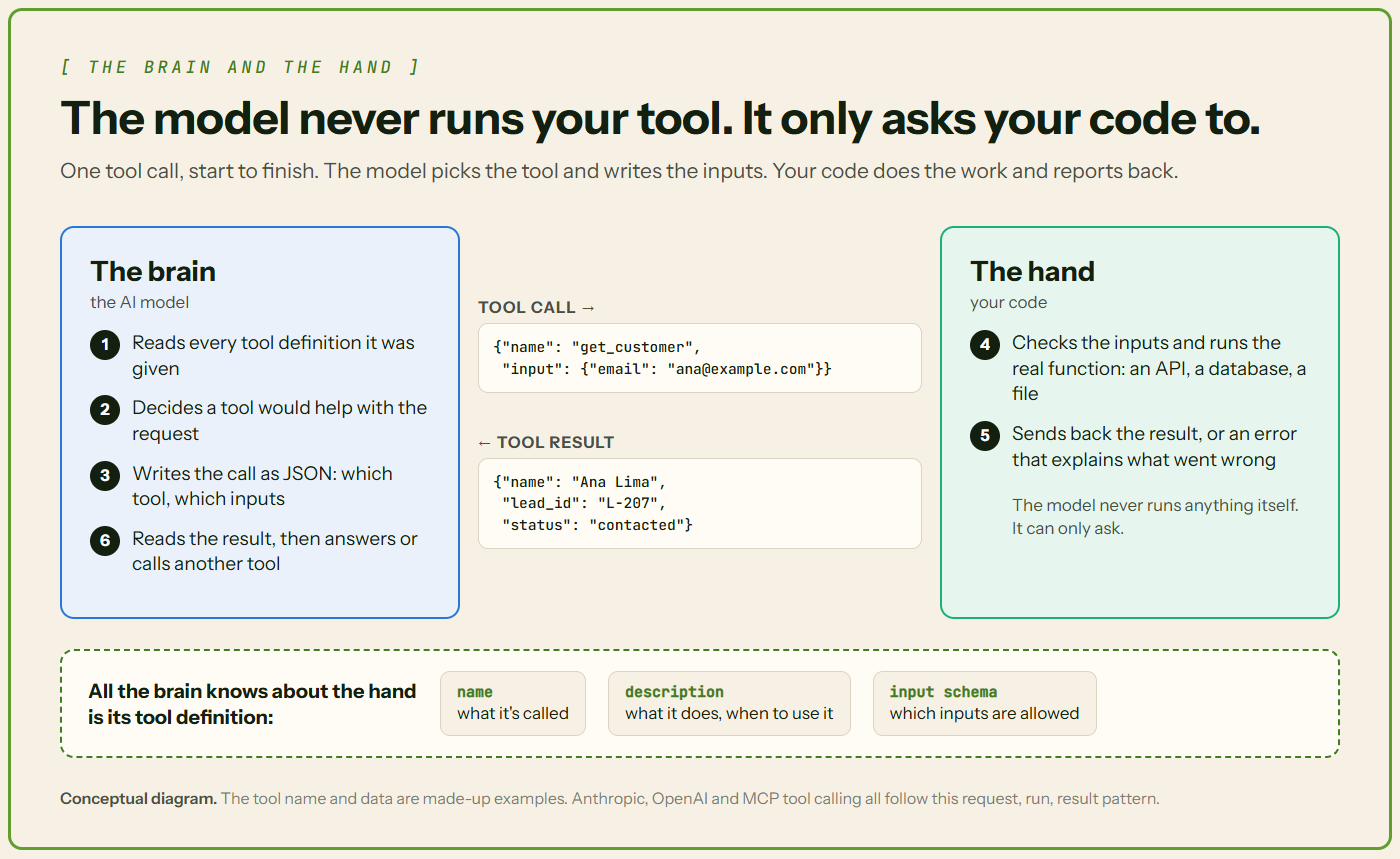
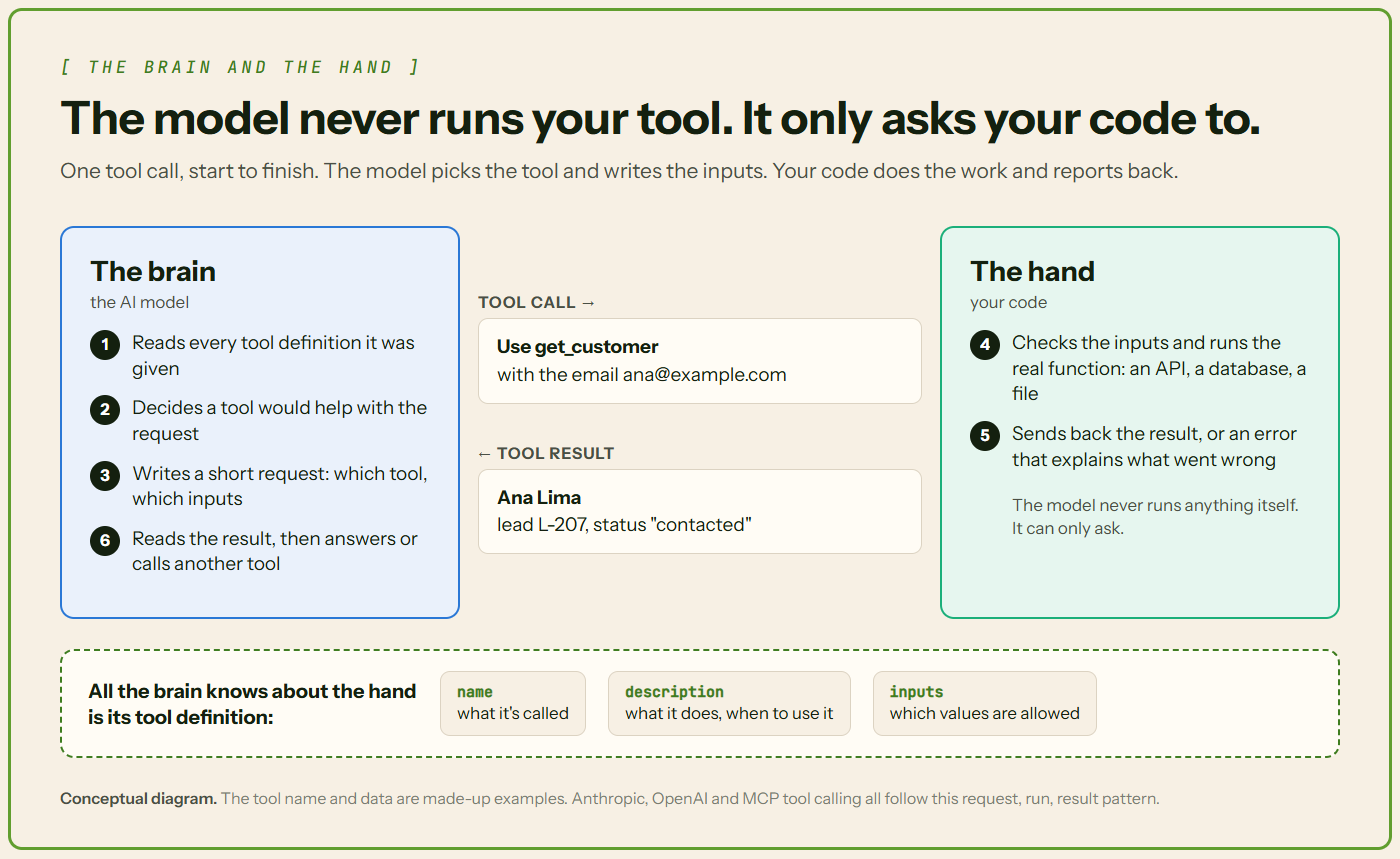
Remove code snippets and trim links in the tool design article

diff --git a/tool-design-for-ai-agents/index.html b/tool-design-for-ai-agents/index.html
@@ -313,7 +313,7 @@
 
 <p class="drop-cap">Ask an AI model to book you a meeting. On its own, it can't. A model only writes text. For anything else, it needs a tool.</p>
 
-<p>Anthropic, the company behind Claude, says agents "are typically just LLMs using tools based on environmental feedback in a loop." <a href="https://www.anthropic.com/research/building-effective-agents" target="_blank">[1]</a> In plain words: the model thinks, uses a tool, looks at what happened, and goes again.</p>
+<p>Anthropic, the company behind Claude, says agents "<a href="https://www.anthropic.com/research/building-effective-agents" target="_blank">are typically just LLMs using tools based on environmental feedback in a loop</a>." In plain words: the model thinks, uses a tool, looks at what happened, and goes again.</p>
 
 <p>Tools are the layer that connects that loop to real data and real systems. The model is the brain. Tools are its hands.</p>
 
@@ -332,7 +332,7 @@
       <tr><td>AI agent</td><td>An LLM that works in a loop, using tools step by step until a task is done.</td></tr>
       <tr><td>Function</td><td>A named piece of code that takes inputs and does one thing.</td></tr>
       <tr><td>API and endpoint</td><td>An API is how one program talks to another. An endpoint is one action it offers.</td></tr>
-      <tr><td>JSON and JSON Schema</td><td>JSON is a simple text format for data. JSON Schema describes which JSON is allowed.</td></tr>
+      <tr><td>JSON and JSON Schema</td><td>JSON is a simple text format apps use to pass data. JSON Schema describes which data is allowed.</td></tr>
       <tr><td>Token</td><td>A small chunk of text, a word or part of one. Models read and charge by tokens.</td></tr>
       <tr><td>Context window</td><td>Everything the model can see at once. It's measured in tokens and has a limit.</td></tr>
       <tr><td>MCP</td><td>Model Context Protocol, an open standard for plugging tools into AI apps.</td></tr>
@@ -347,9 +347,9 @@
 <p><strong>In plain words:</strong> a tool is a function the agent can call. It either fetches information or takes an action. Think <code>get_customer</code> or <code>send_email</code>.</p>
 
 <ul>
-  <li><strong>The model only asks.</strong> It writes a structured request. Your code runs the tool and sends the result back. <a href="https://developers.openai.com/api/docs/guides/function-calling" target="_blank">[5]</a></li>
+  <li><strong>The model only asks.</strong> It writes a structured request. Your code runs the tool and sends the result back.</li>
   <li><strong>Tools get work done.</strong> Without them, a model answers questions. With them, it can look things up and change things.</li>
-  <li><strong>Tools reach past training data.</strong> OpenAI says tool calling lets models "access data outside their training data." <a href="https://developers.openai.com/api/docs/guides/function-calling" target="_blank">[5]</a> That means live prices, company systems and the real world.</li>
+  <li><strong>Tools reach past training data.</strong> OpenAI says tool calling lets models "access data outside their training data." That means live prices, company systems and the real world.</li>
 </ul>
 
 <p class="guardrail"><strong>Good to know:</strong> Training data is the text a model learned from. It stops at a cutoff date. It never included your private systems.</p>
@@ -374,12 +374,12 @@
   </div>
 </figure>
 
-<p>That last one is how a hub talks to its spokes, as in our <a href="https://padmashri23.github.io/under-the-hood/production-multi-agent-architecture/" target="_blank">hub-and-spoke article</a>. OpenAI's Agents SDK has a shortcut for it, <code>as_tool</code>. It can "expose an agent as a callable tool without a full handoff." <a href="https://openai.github.io/openai-agents-python/tools/" target="_blank">[10]</a></p>
+<p>That last one is how a hub talks to its spokes, as in our hub-and-spoke article. OpenAI's Agents SDK has a shortcut for it, <code>as_tool</code>. It can "expose an agent as a callable tool without a full handoff."</p>
 
 <h3>Built-in tools vs your own</h3>
 
 <ul>
-  <li><strong>Built-in tools</strong> come ready-made from the AI provider and run on its servers. Anthropic's include web search, web fetch and code execution. <a href="https://platform.claude.com/docs/en/agents-and-tools/tool-use/overview" target="_blank">[8]</a> OpenAI's include web search and file search. <a href="https://developers.openai.com/api/docs/guides/tools" target="_blank">[9]</a></li>
+  <li><strong>Built-in tools</strong> come ready-made from the AI provider and run on its servers. Anthropic's include web search, web fetch and code execution. OpenAI's include web search and file search.</li>
   <li><strong>Custom tools</strong> are the ones you write for your own systems. Your code runs them. Most of this article is about these.</li>
 </ul>
 
@@ -391,12 +391,12 @@
 
 <ul>
   <li><strong>Name:</strong> short, action-first and clear. <code>get_customer</code> beats <code>customer</code> or <code>helper</code>. Add detail when it helps, like <code>get_customer_by_email</code>.</li>
-  <li><strong>Description:</strong> what it does, when to use it, when not to, and what it returns. Anthropic says a description should cover "When it should be used (and when it shouldn't)." <a href="https://platform.claude.com/docs/en/agents-and-tools/tool-use/define-tools" target="_blank">[16]</a></li>
-  <li><strong>Input schema:</strong> a JSON Schema for the inputs. It sets each input's type and marks which are required or optional. An enum limits a value to a fixed list. A format names the expected shape, like <code>"date"</code> for 2026-11-07. Many validators skip this check unless you turn it on. <a href="https://json-schema.org/draft/2020-12/json-schema-validation" target="_blank">[11]</a></li>
+  <li><strong>Description:</strong> what it does, when to use it, when not to, and what it returns. Anthropic says a description should cover "When it should be used (and when it shouldn't)."</li>
+  <li><strong>Input schema:</strong> a JSON Schema for the inputs. It sets each input's type and marks which are required or optional. An enum limits a value to a fixed list. A format names the expected shape, like a date such as 2026-11-07. Many validators skip this check unless you turn it on.</li>
   <li><strong>Parameter descriptions:</strong> one line per input, with an example value. For instance: "Exact email, e.g. ana@example.com."</li>
 </ul>
 
-<p class="guardrail"><strong>Good to know:</strong> The description is really a prompt. The model picks tools by reading it. Anthropic says descriptions "can collectively steer agents toward effective tool-calling behaviors." <a href="https://www.anthropic.com/engineering/writing-tools-for-agents" target="_blank">[2]</a> A vague one leads to wrong calls.</p>
+<p class="guardrail"><strong>Good to know:</strong> The description is really a prompt. The model picks tools by reading it. Anthropic says descriptions "can collectively steer agents toward effective tool-calling behaviors." A vague one leads to wrong calls.</p>
 
 <h2>🔄 The tool-calling flow, step by step</h2>
 
@@ -410,58 +410,25 @@
   <li>The model reads the result. Then it calls another tool or gives its final answer.</li>
 </ol>
 
-<p>OpenAI's guide describes these same five steps. <a href="https://developers.openai.com/api/docs/guides/function-calling" target="_blank">[5]</a></p>
+<p>OpenAI's guide describes these same five steps.</p>
 
 <figure class="article-image">
-  <img src="https://padmashri23.github.io/under-the-hood/tool-design-for-ai-agents/images/brain-and-hand.png" onerror="this.onerror=null;this.src='images/brain-and-hand.png'" width="1400" height="859" loading="lazy" alt="Diagram of one tool call. The brain, the AI model, reads tool definitions, decides a tool would help, and writes a JSON call such as get_customer with an email. The hand, your code, checks the inputs, runs the real function and sends back the result or a clear error. The model reads the result and answers or calls again. All the model knows about the tool is its name, description and input schema.">
+  <img src="https://padmashri23.github.io/under-the-hood/tool-design-for-ai-agents/images/brain-and-hand.png" onerror="this.onerror=null;this.src='images/brain-and-hand.png'" width="1400" height="859" loading="lazy" alt="Diagram of one tool call. The brain, the AI model, reads tool definitions, decides a tool would help, and writes a short request, such as get_customer with an email. The hand, your code, checks the inputs, runs the real function and sends back the result or a clear error. The model reads the result and answers or calls again. All the model knows about the tool is its name, description and input schema.">
   <figcaption>Figure 1. The tool-calling flow: the model asks, your code acts, the result goes back. Conceptual diagram with made-up data.</figcaption>
 </figure>
 
-<h3>One round trip in code</h3>
+<h3>One round trip, step by step</h3>
 
-<p>Here's one full round trip, in the format Anthropic's API uses. <a href="https://platform.claude.com/docs/en/agents-and-tools/tool-use/overview" target="_blank">[8]</a></p>
+<p>Here's the same flow with our running example. A user asks: "What stage is Ana's lead at? Her email is ana@example.com."</p>
 
-<figure class="tbl">
-<pre><code>// 1. Your app sends this tool definition with the user's message:
-//    "What stage is Ana's lead at? Her email is ana@example.com."
-{
-  "name": "get_customer",
-  "description": "Find one customer by exact email. Use it before update_lead_status. Don't use it to search by name. Returns name, lead_id and lead status, or a not-found message.",
-  "input_schema": {
-    "type": "object",
-    "properties": {
-      "email": {"type": "string",
-                "description": "Exact email, e.g. ana@example.com"}
-    },
-    "required": ["email"]
-  }
-}
+<ol>
+  <li><strong>Your app sends the tool definition.</strong> It describes <code>get_customer</code>: "Find one customer by exact email." Its one required input is the email.</li>
+  <li><strong>The model asks for the tool.</strong> It replies: use <code>get_customer</code> with ana@example.com. The request gets an ID, like a tracking number.</li>
+  <li><strong>Your code runs it.</strong> It checks the email and looks Ana up in the CRM. It sends back her name, lead L-207 and status "contacted", tagged with the same tracking number.</li>
+  <li><strong>The model answers.</strong> "Ana Lima's lead is at the contacted stage."</li>
+</ol>
 
-// 2. The model replies with a tool call (stop_reason: "tool_use")
-{"type": "tool_use", "id": "toolu_01A",
- "name": "get_customer",
- "input": {"email": "ana@example.com"}}
-
-// 3. Your code checks the email, runs the lookup, sends this back
-{"type": "tool_result", "tool_use_id": "toolu_01A",
- "content": "{\"name\": \"Ana Lima\", \"lead_id\": \"L-207\", \"status\": \"contacted\"}"}
-
-// 4. The model reads it and answers:
-//    "Ana Lima's lead is at the contacted stage."</code></pre>
-<figcaption>Code 1. A simplified round trip with made-up data. The tool_use_id links the result to the call. OpenAI's API does the same job with a call_id. <a href="https://developers.openai.com/api/docs/guides/function-calling" target="_blank">[5]</a></figcaption>
-</figure>
-
-<p><strong>What each part means:</strong></p>
-
-<ul>
-  <li><code>name</code> and <code>description</code>: what the model reads to pick the tool.</li>
-  <li><code>input_schema</code>: the inputs allowed. <code>required</code> means the model must always fill in <code>email</code>.</li>
-  <li><code>tool_use</code>: the model's request. Its <code>id</code> works like a tracking number.</li>
-  <li><code>tool_result</code>: your reply. <code>tool_use_id</code> repeats the tracking number, so the model knows which call it answers.</li>
-  <li><code>content</code>: the data itself, kept short.</li>
-</ul>
-
-<p class="guardrail"><strong>Good to know:</strong> One reply can hold more than one tool call. Your app runs each one and sends back each result with its own ID. <a href="https://platform.claude.com/docs/en/agents-and-tools/tool-use/overview" target="_blank">[8]</a></p>
+<p class="guardrail"><strong>Good to know:</strong> One reply can hold more than one tool call. Your app runs each one and sends back each result with its own ID.</p>
 
 <h2>📤 Designing tool outputs</h2>
 
@@ -470,13 +437,13 @@
 <ul>
   <li><strong>Return only what's needed.</strong> Short, structured, relevant fields.</li>
   <li><strong>Skip raw dumps.</strong> A full API response or a page of HTML fills the context fast.</li>
-  <li><strong>Page or trim big results.</strong> Anthropic suggests "pagination, range selection, filtering, and/or truncation." <a href="https://www.anthropic.com/engineering/writing-tools-for-agents" target="_blank">[2]</a> Pagination means sending results one page at a time.</li>
-  <li><strong>Say when you cut something.</strong> Anthropic says to "steer agents with helpful instructions" after truncating. <a href="https://www.anthropic.com/engineering/writing-tools-for-agents" target="_blank">[2]</a> For example: "Showing 20 of 340 results. Add a date filter to narrow it."</li>
-  <li><strong>Keep formats consistent</strong> across tools. Anthropic found even the choice of JSON, XML or Markdown can affect results. <a href="https://www.anthropic.com/engineering/writing-tools-for-agents" target="_blank">[2]</a></li>
-  <li><strong>Include IDs and links the agent needs next.</strong> Readable names help the model think. But a follow-up call may need an exact ID. Anthropic's example: <code>search_user(name='jane')</code> then <code>send_message(id=12345)</code>. <a href="https://www.anthropic.com/engineering/writing-tools-for-agents" target="_blank">[2]</a></li>
+  <li><strong>Page or trim big results.</strong> Anthropic suggests "pagination, range selection, filtering, and/or truncation." Pagination means sending results one page at a time.</li>
+  <li><strong>Say when you cut something.</strong> Anthropic says to "steer agents with helpful instructions" after truncating. For example: "Showing 20 of 340 results. Add a date filter to narrow it."</li>
+  <li><strong>Keep formats consistent</strong> across tools. Anthropic found even the choice of JSON, XML or Markdown can affect results.</li>
+  <li><strong>Include IDs and links the agent needs next.</strong> Readable names help the model think. But a follow-up call may need an exact ID. Anthropic's example: find a user by name, then message them using their ID.</li>
 </ul>
 
-<p>Anthropic's Slack example shows the payoff. A detailed reply used 206 tokens. A concise one used 72. <a href="https://www.anthropic.com/engineering/writing-tools-for-agents" target="_blank">[2]</a></p>
+<p><a href="https://www.anthropic.com/engineering/writing-tools-for-agents" target="_blank">Anthropic's Slack example</a> shows the payoff. A detailed reply used 206 tokens. A concise one used 72.</p>
 
 <figure class="article-image">
   <img src="https://padmashri23.github.io/under-the-hood/tool-design-for-ai-agents/images/concise-vs-detailed.png" onerror="this.onerror=null;this.src='images/concise-vs-detailed.png'" width="1400" height="541" loading="lazy" alt="Bar chart: a detailed Slack tool response uses 206 tokens and a concise one uses 72 tokens, about a third.">
@@ -489,7 +456,7 @@
 
 <p><strong>In plain words:</strong> a few small, clear tools beat a big, messy toolbox.</p>
 
-<p>Does design really matter? In 2024, Princeton researchers tested a coding agent called SWE-agent. They kept one model, GPT-4 Turbo, and changed only its tools. On 300 real GitHub bugs, the full toolset fixed 18.0%. Without its custom file editor, it fixed 10.3%. <a href="https://arxiv.org/abs/2405.15793" target="_blank">[6]</a></p>
+<p>Does design really matter? In 2024, <a href="https://arxiv.org/abs/2405.15793" target="_blank">Princeton researchers</a> tested a coding agent called SWE-agent. They kept one model, GPT-4 Turbo, and changed only its tools. On 300 real GitHub bugs, the full toolset fixed 18.0%. Without its custom file editor, it fixed 10.3%.</p>
 
 <figure class="article-image">
   <img src="https://padmashri23.github.io/under-the-hood/tool-design-for-ai-agents/images/same-model-different-tools.png" onerror="this.onerror=null;this.src='images/same-model-different-tools.png'" width="1400" height="829" loading="lazy" alt="Bar chart of SWE-agent results on SWE-bench Lite with GPT-4 Turbo. Full toolset 18.0 percent. No search tool 15.7 percent. Editor without syntax check 15.0 percent. Viewer showing the whole file 12.7 percent. Search showing one result at a time 12.0 percent. No custom edit command 10.3 percent.">
@@ -498,25 +465,25 @@
 
 <ul>
   <li><strong>Small, focused toolset.</strong> Too many tools make picking the right one harder. More on this below.</li>
-  <li><strong>No overlap.</strong> Anthropic: "Make sure each tool you build has a clear, distinct purpose." <a href="https://www.anthropic.com/engineering/writing-tools-for-agents" target="_blank">[2]</a></li>
-  <li><strong>Right size.</strong> One tool per real task, not one per API endpoint. One <code>schedule_event</code> beats <code>list_users</code>, <code>list_events</code> and <code>create_event</code>. <a href="https://www.anthropic.com/engineering/writing-tools-for-agents" target="_blank">[2]</a></li>
-  <li><strong>Separate read from write.</strong> Then reads can run freely while writes get checks. MCP lets a tool label itself read-only or destructive. <a href="https://modelcontextprotocol.io/specification/2025-11-25/schema" target="_blank">[12]</a></li>
-  <li><strong>Idempotent where possible.</strong> That means running it twice has the same effect as once. A retry won't create a duplicate ticket. MCP has a label for this too. <a href="https://modelcontextprotocol.io/specification/2025-11-25/schema" target="_blank">[12]</a></li>
-  <li><strong>One naming pattern.</strong> Use verb_noun: <code>get_customer</code>, <code>update_lead_status</code>, <code>send_email</code>. Anthropic also suggests shared prefixes, like <code>asana_search</code> and <code>jira_search</code>. <a href="https://www.anthropic.com/engineering/writing-tools-for-agents" target="_blank">[2]</a></li>
+  <li><strong>No overlap.</strong> Anthropic: "Make sure each tool you build has a clear, distinct purpose."</li>
+  <li><strong>Right size.</strong> One tool per real task, not one per API endpoint. One <code>schedule_event</code> beats <code>list_users</code>, <code>list_events</code> and <code>create_event</code>.</li>
+  <li><strong>Separate read from write.</strong> Then reads can run freely while writes get checks. MCP lets a tool label itself read-only or destructive.</li>
+  <li><strong>Idempotent where possible.</strong> That means running it twice has the same effect as once. A retry won't create a duplicate ticket. MCP has a label for this too.</li>
+  <li><strong>One naming pattern.</strong> Use verb_noun: <code>get_customer</code>, <code>update_lead_status</code>, <code>send_email</code>. Anthropic also suggests shared prefixes, like <code>asana_search</code> and <code>jira_search</code>.</li>
 </ul>
 
 <h3>How many tools is too many?</h3>
 
-<p>Every tool definition sits in the context window before the agent starts. Anthropic shared an example with five MCP servers: 58 tools using about 55,000 tokens "before the conversation even starts." <a href="https://www.anthropic.com/engineering/advanced-tool-use" target="_blank">[3]</a> OpenAI suggests fewer than 20 tools at the start, calling it "just a soft suggestion." <a href="https://developers.openai.com/api/docs/guides/function-calling" target="_blank">[5]</a></p>
+<p>Every tool definition sits in the context window before the agent starts. Anthropic shared an example with five MCP servers: 58 tools using about 55,000 tokens "<a href="https://www.anthropic.com/engineering/advanced-tool-use" target="_blank">before the conversation even starts</a>." <a href="https://developers.openai.com/api/docs/guides/function-calling" target="_blank">OpenAI suggests fewer than 20 tools at the start</a>, calling it "just a soft suggestion."</p>
 
 <figure class="article-image">
   <img src="https://padmashri23.github.io/under-the-hood/tool-design-for-ai-agents/images/tool-definition-tokens.png" onerror="this.onerror=null;this.src='images/tool-definition-tokens.png'" width="1400" height="735" loading="lazy" alt="Bar chart of tokens used by tool definitions per MCP server: GitHub 35 tools about 26K tokens, Slack 11 tools about 21K, Sentry 5 tools about 3K, Grafana 5 tools about 3K, Splunk 2 tools about 2K. 58 tools, about 55K tokens in total.">
   <figcaption>Figure 4. Where 55,000 tokens go. Approximate figures from Anthropic (2025).</figcaption>
 </figure>
 
-<p class="guardrail"><strong>Good to know:</strong> Need a big toolbox anyway? Load tools only when needed. Anthropic's Tool Search Tool lets the model search for the few it needs. In Anthropic's example, that cut up-front context from about 77,000 tokens to 8,700. In internal tests, it also raised accuracy (Figure 5). <a href="https://www.anthropic.com/engineering/advanced-tool-use" target="_blank">[3]</a></p>
+<p class="guardrail"><strong>Good to know:</strong> Need a big toolbox anyway? Load tools only when needed. Anthropic's Tool Search Tool lets the model search for the few it needs. In Anthropic's example, that cut up-front context from about 77,000 tokens to 8,700. In internal tests, it also raised accuracy (Figure 5).</p>
 
-<p>A 2025 paper, RAG-MCP, saw a similar pattern. Picking relevant tools first more than tripled accuracy on its test: 43.13% against 13.62%. <a href="https://arxiv.org/abs/2505.03275" target="_blank">[7]</a></p>
+<p>A 2025 paper, <a href="https://arxiv.org/abs/2505.03275" target="_blank">RAG-MCP</a>, saw a similar pattern. Picking relevant tools first more than tripled accuracy on its test: 43.13% against 13.62%.</p>
 
 <figure class="article-image">
   <img src="https://padmashri23.github.io/under-the-hood/tool-design-for-ai-agents/images/tool-search.png" onerror="this.onerror=null;this.src='images/tool-search.png'" width="1400" height="890" loading="lazy" alt="Two charts. Left: accuracy on MCP evaluations rises from 49 to 74 percent for Claude Opus 4 and from 79.5 to 88.1 percent for Opus 4.5 with Tool Search. Right: context used before work begins falls from about 77K tokens to about 8.7K tokens.">
@@ -525,13 +492,13 @@
 
 <h3>Test your tools on real tasks</h3>
 
-<p>How do you know your tools work? Test them. Anthropic builds a quick prototype, then runs an evaluation on tasks "grounded in real world uses." <a href="https://www.anthropic.com/engineering/writing-tools-for-agents" target="_blank">[2]</a></p>
+<p>How do you know your tools work? Test them. Anthropic builds a quick prototype, then runs an evaluation on tasks "grounded in real world uses."</p>
 
 <ul>
   <li><strong>Read the transcripts,</strong> the full log of tool calls and results.</li>
-  <li><strong>Lots of invalid inputs</strong> suggest the description or examples need work. <a href="https://www.anthropic.com/engineering/writing-tools-for-agents" target="_blank">[2]</a></li>
-  <li><strong>Lots of repeat calls</strong> may mean page sizes or limits need adjusting. <a href="https://www.anthropic.com/engineering/writing-tools-for-agents" target="_blank">[2]</a></li>
-  <li><strong>Let AI help.</strong> Anthropic pastes transcripts into Claude Code and has Claude improve the tools. <a href="https://www.anthropic.com/engineering/writing-tools-for-agents" target="_blank">[2]</a></li>
+  <li><strong>Lots of invalid inputs</strong> suggest the description or examples need work.</li>
+  <li><strong>Lots of repeat calls</strong> may mean page sizes or limits need adjusting.</li>
+  <li><strong>Let AI help.</strong> Anthropic pastes transcripts into Claude Code and has Claude improve the tools.</li>
 </ul>
 
 <p>More on testing in our guide to <a href="https://padmashri23.github.io/under-the-hood/evaluate-ai-agents-before-production/" target="_blank">evaluating AI agents</a>.</p>
@@ -564,7 +531,7 @@
 <p>Here's what a poor and a good definition look like side by side.</p>
 
 <figure class="article-image">
-  <img src="https://padmashri23.github.io/under-the-hood/tool-design-for-ai-agents/images/tool-anatomy.png" onerror="this.onerror=null;this.src='images/tool-anatomy.png'" width="1400" height="1006" loading="lazy" alt="Two tool definitions side by side. The weak one is named get, described as Gets data, and takes vague user and type strings. The strong one is named get_customer, says when to use it, when not to and what it returns, gives an example email input, and limits response_format to concise or detailed with an enum.">
+  <img src="https://padmashri23.github.io/under-the-hood/tool-design-for-ai-agents/images/tool-anatomy.png" onerror="this.onerror=null;this.src='images/tool-anatomy.png'" width="1400" height="934" loading="lazy" alt="Two tool definitions side by side. The weak one is named get, described as Gets data, and takes vague user and type strings. The strong one is named get_customer, says when to use it, when not to and what it returns, gives an example email input, and limits response_format to concise or detailed.">
   <figcaption>Figure 6. A poor and a good definition for the same job. Illustrative example with made-up tools.</figcaption>
 </figure>
 
@@ -575,40 +542,28 @@
 <p><strong>In plain words:</strong> when a tool fails, the error goes back to the model. That message is its only clue about what to fix.</p>
 
 <ul>
-  <li><strong>Write readable errors.</strong> "Customer not found. Check the email format." beats a stack trace, the raw crash log a program prints. MCP says good tool errors give "actionable feedback that language models can use to self-correct." <a href="https://modelcontextprotocol.io/specification/2025-11-25/server/tools" target="_blank">[4]</a></li>
-  <li><strong>Check arguments before running,</strong> especially for writes. MCP servers "MUST" validate all tool inputs. <a href="https://modelcontextprotocol.io/specification/2025-11-25/server/tools" target="_blank">[4]</a></li>
-  <li><strong>Set timeouts and retry limits.</strong> MCP says apps should "Implement timeouts for tool calls." <a href="https://modelcontextprotocol.io/specification/2025-11-25/server/tools" target="_blank">[4]</a> Cap retries too, so a broken tool can't loop forever.</li>
+  <li><strong>Write readable errors.</strong> "Customer not found. Check the email format." beats a stack trace, the raw crash log a program prints. MCP says good tool errors give "actionable feedback that language models can use to self-correct."</li>
+  <li><strong>Check arguments before running,</strong> especially for writes. MCP servers "MUST" validate all tool inputs.</li>
+  <li><strong>Set timeouts and retry limits.</strong> MCP says apps should "Implement timeouts for tool calls." Cap retries too, so a broken tool can't loop forever.</li>
   <li><strong>Let the model recover.</strong> It can retry with fixed input, try another tool, or tell the user.</li>
   <li><strong>Log every failure,</strong> so you can debug it later.</li>
 </ul>
 
-<figure class="tbl">
-<pre><code>// Hard to recover from
-{"type": "tool_result", "tool_use_id": "toolu_01A",
- "content": "Error 500", "is_error": true}
-
-// Easy to recover from (the user mistyped the email)
-{"type": "tool_result", "tool_use_id": "toolu_01A",
- "content": "Customer not found for ana@exmple.com. Check the spelling of the email, or ask the user to confirm it.",
- "is_error": true}</code></pre>
-<figcaption>Code 2. The same failure, reported two ways. Made-up example in Anthropic's format.</figcaption>
-</figure>
-
-<p class="guardrail"><strong>Good to know:</strong> Mark failures clearly. Anthropic's API uses <code>is_error: true</code> on a tool result. <a href="https://platform.claude.com/docs/en/agents-and-tools/tool-use/handle-tool-calls" target="_blank">[13]</a> MCP uses <code>isError: true</code>. <a href="https://modelcontextprotocol.io/specification/2025-11-25/server/tools" target="_blank">[4]</a></p>
+<p class="guardrail"><strong>Good to know:</strong> Mark failures clearly. Anthropic's API and MCP both let a tool flag its result as an error, so the model knows the call failed.</p>
 
 <h2>🔐 Tool security and permissions</h2>
 
 <p><strong>In plain words:</strong> a tool that can delete, pay or send can do damage. Limit what each one can do.</p>
 
 <ul>
-  <li><strong>Least privilege.</strong> Give each agent only the tools it needs. OWASP, a security nonprofit, says to limit tools "to only the minimum necessary." <a href="https://genai.owasp.org/llmrisk/llm062025-excessive-agency/" target="_blank">[14]</a></li>
-  <li><strong>Keep credentials in your code.</strong> API keys live in your app, which runs the tool. Scope each key to just what that tool needs. The model never needs to see them. OWASP also says actions should run with the user's own access and "the minimum privileges necessary." <a href="https://genai.owasp.org/llmrisk/llm062025-excessive-agency/" target="_blank">[14]</a></li>
-  <li><strong>Human approval for risky actions,</strong> like payments, deletions and outside messages. MCP says a person "SHOULD" be able to deny tool calls. <a href="https://modelcontextprotocol.io/specification/2025-11-25/server/tools" target="_blank">[4]</a></li>
-  <li><strong>Treat tool results as untrusted.</strong> A web page or file can hide instructions. That's indirect prompt injection: it happens "when an LLM accepts input from external sources, such as websites or files." <a href="https://genai.owasp.org/llmrisk/llm01-prompt-injection/" target="_blank">[15]</a> MCP says to "Validate tool results before passing to LLM." <a href="https://modelcontextprotocol.io/specification/2025-11-25/server/tools" target="_blank">[4]</a></li>
-  <li><strong>Keep an audit log.</strong> MCP says to "Log tool usage for audit purposes." <a href="https://modelcontextprotocol.io/specification/2025-11-25/server/tools" target="_blank">[4]</a></li>
+  <li><strong>Least privilege.</strong> Give each agent only the tools it needs. OWASP, a security nonprofit, says to limit tools "<a href="https://genai.owasp.org/llmrisk/llm062025-excessive-agency/" target="_blank">to only the minimum necessary</a>."</li>
+  <li><strong>Keep credentials in your code.</strong> API keys live in your app, which runs the tool. Scope each key to just what that tool needs. The model never needs to see them. OWASP also says actions should run with the user's own access and "the minimum privileges necessary."</li>
+  <li><strong>Human approval for risky actions,</strong> like payments, deletions and outside messages. MCP says a person "SHOULD" <a href="https://modelcontextprotocol.io/specification/2025-11-25/server/tools" target="_blank">be able to deny tool calls</a>.</li>
+  <li><strong>Treat tool results as untrusted.</strong> A web page or file can hide instructions. That's indirect prompt injection: it happens "when an LLM accepts input from external sources, such as websites or files." MCP says to "Validate tool results before passing to LLM."</li>
+  <li><strong>Keep an audit log.</strong> MCP says to "Log tool usage for audit purposes."</li>
 </ul>
 
-<p class="guardrail"><strong>Good to know:</strong> MCP lets tools label themselves read-only or destructive. <a href="https://modelcontextprotocol.io/specification/2025-11-25/schema" target="_blank">[12]</a> But apps "MUST consider tool annotations to be untrusted unless they come from trusted servers." <a href="https://modelcontextprotocol.io/specification/2025-11-25/server/tools" target="_blank">[4]</a></p>
+<p class="guardrail"><strong>Good to know:</strong> MCP lets tools label themselves read-only or destructive. But apps "MUST consider tool annotations to be untrusted unless they come from trusted servers."</p>
 
 <p>More in our articles on <a href="https://padmashri23.github.io/under-the-hood/prompt-injection-enterprise-threat/" target="_blank">prompt injection</a> and <a href="https://padmashri23.github.io/under-the-hood/ai-agent-risks-without-guardrails/" target="_blank">agent guardrails</a>.</p>
 
@@ -634,7 +589,7 @@
 </ol>
 
 <figure class="article-image">
-  <img src="https://padmashri23.github.io/under-the-hood/tool-design-for-ai-agents/images/crm-spoke.png" onerror="this.onerror=null;this.src='images/crm-spoke.png'" width="1400" height="902" loading="lazy" alt="Worked example of a CRM spoke with two tools. get_customer is a read tool that takes an email and runs right away. update_lead_status is a write tool that takes a lead ID and a status of new, contacted, qualified or lost, and needs approval. The spoke looks up Ana, gets lead L-207 with status contacted, requests a change to qualified, the app pauses for a person to approve or reject, and after approval the update runs, is logged and reported to the hub.">
+  <img src="https://padmashri23.github.io/under-the-hood/tool-design-for-ai-agents/images/crm-spoke.png" onerror="this.onerror=null;this.src='images/crm-spoke.png'" width="1400" height="892" loading="lazy" alt="Worked example of a CRM spoke with two tools. get_customer is a read tool that takes an email and runs right away. update_lead_status is a write tool that takes a lead ID and a status of new, contacted, qualified or lost, and needs approval. The spoke looks up Ana, gets lead L-207 with status contacted, requests a change to qualified, the app pauses for a person to approve or reject, and after approval the update runs, is logged and reported to the hub.">
   <figcaption>Figure 7. One read tool, one write tool with approval. Illustrative example with made-up data.</figcaption>
 </figure>
 
@@ -687,7 +642,7 @@
     <li>Anthropic. "Define tools." Claude Platform Docs. Checked November 7, 2026. <a href="https://platform.claude.com/docs/en/agents-and-tools/tool-use/define-tools" target="_blank">platform.claude.com</a></li>
   </ol>
 
-  <p style="margin-top: 20px;"><strong>Note:</strong> All sources were checked on November 7, 2026. Anthropic's token and accuracy figures come from its own published examples and internal testing; they have not been independently reproduced. The SWE-agent results are from 2024 with GPT-4 Turbo. Newer models score much higher on SWE-bench, so read Figure 3 as a comparison within one model, not as a current leaderboard. Figures 1, 6 and 7, Code 1 and 2, the CRM worked example and the error-message examples use made-up tools and data to illustrate the ideas. Code 1 and 2 are simplified from Anthropic's message format. The MCP quotes come from the 2025-11-25 version of the specification. Tool APIs change often, so check the provider's current docs before building.</p>
+  <p style="margin-top: 20px;"><strong>Note:</strong> All sources were checked on November 7, 2026. Anthropic's token and accuracy figures come from its own published examples and internal testing; they have not been independently reproduced. The SWE-agent results are from 2024 with GPT-4 Turbo. Newer models score much higher on SWE-bench, so read Figure 3 as a comparison within one model, not as a current leaderboard. Figures 1, 6 and 7, the round-trip walkthrough, the CRM worked example and the error-message examples use made-up tools and data to illustrate the ideas. The MCP quotes come from the 2025-11-25 version of the specification. Tool APIs change often, so check the provider's current docs before building.</p>
 
   <div class="tags">
     <span>AI agents</span>

diff --git a/tool-design-for-ai-agents/README.md b/tool-design-for-ai-agents/README.md
@@ -10,15 +10,15 @@ A beginner-friendly guide to the tools an AI agent uses to act in the world. The
 2. **What a tool is:** a function that fetches information or takes an action, and why the model never runs it itself
 3. **Types of tools:** read, write, compute, agent-as-tool, and built-in vs custom tools
 4. **Anatomy of a tool definition:** name, description (including when not to use it), JSON Schema inputs and parameter descriptions
-5. **The tool-calling flow:** five steps, a flow diagram, and a full round trip in code explained part by part
+5. **The tool-calling flow:** five steps, a flow diagram, and one full round trip walked through in plain words
 6. **Designing tool outputs:** lean results, pagination and truncation, consistent formats and useful IDs
 7. **Best practices:** the SWE-agent evidence, small and non-overlapping toolsets, task-sized tools, read/write split, idempotency, naming, and tool-count data
 8. **Common mistakes:** nine mistakes with fixes, plus a poor vs good definition side by side
-9. **Error handling** and **security and permissions:** readable errors (with a bad vs good error in code), validation, timeouts, logging, least privilege, credentials, approval and prompt injection
+9. **Error handling** and **security and permissions:** readable errors, validation, timeouts, logging, least privilege, credentials, approval and prompt injection
 10. **Worked example:** a CRM lookup spoke with one read tool and one write tool behind human approval
 11. **Testing and checklist:** how to test tools on real tasks, and a 12-point tool design checklist
 
-Written for beginners: a short-version box, a glossary, every technical term explained, and about 10 words per sentence on average. Every section follows the same shape: an "In plain words" opener, bullets, then a "Good to know" or "Try this" note. One running example (Ana's CRM lead) ties the figures, code and worked example together. About 3,004 words above Sources & References (3,061 including the title block), counting headings, captions, tables and both code examples. No video.
+Written for beginners: a short-version box, a glossary, every technical term explained, and about 10 words per sentence on average. Every section follows the same shape: an "In plain words" opener, bullets, then a "Good to know" or "Try this" note. One running example (Ana's CRM lead) ties the figures, code and worked example together. No code snippets: every example is written in plain words, and links appear only on key facts and related Under the Hood articles. About 2,767 words above Sources & References (2,824 including the title block), counting headings, captions and tables. No video.
 
 ## Visuals
 
@@ -29,7 +29,7 @@ Written for beginners: a short-version box, a glossary, every technical term exp
 | `images/same-model-different-tools.png` | Figure 3. SWE-agent on SWE-bench Lite with GPT-4 Turbo under six toolsets, Yang et al. 2024 (measured) |
 | `images/tool-definition-tokens.png` | Figure 4. Tokens used by tool definitions across five MCP servers, about 55K for 58 tools (Anthropic example) |
 | `images/tool-search.png` | Figure 5. Accuracy and context use with and without Tool Search (Anthropic internal testing) |
-| `images/tool-anatomy.png` | Figure 6. A poor and a good tool definition side by side (illustrative) |
+| `images/tool-anatomy.png` | Figure 6. A poor and a good tool definition side by side, in plain words (illustrative) |
 | `images/crm-spoke.png` | Figure 7. Worked example: a CRM spoke with a read tool and a write tool behind approval (illustrative) |
 | `images/social-card.png` | 1200 × 630 preview image shown when the link is shared |
 
